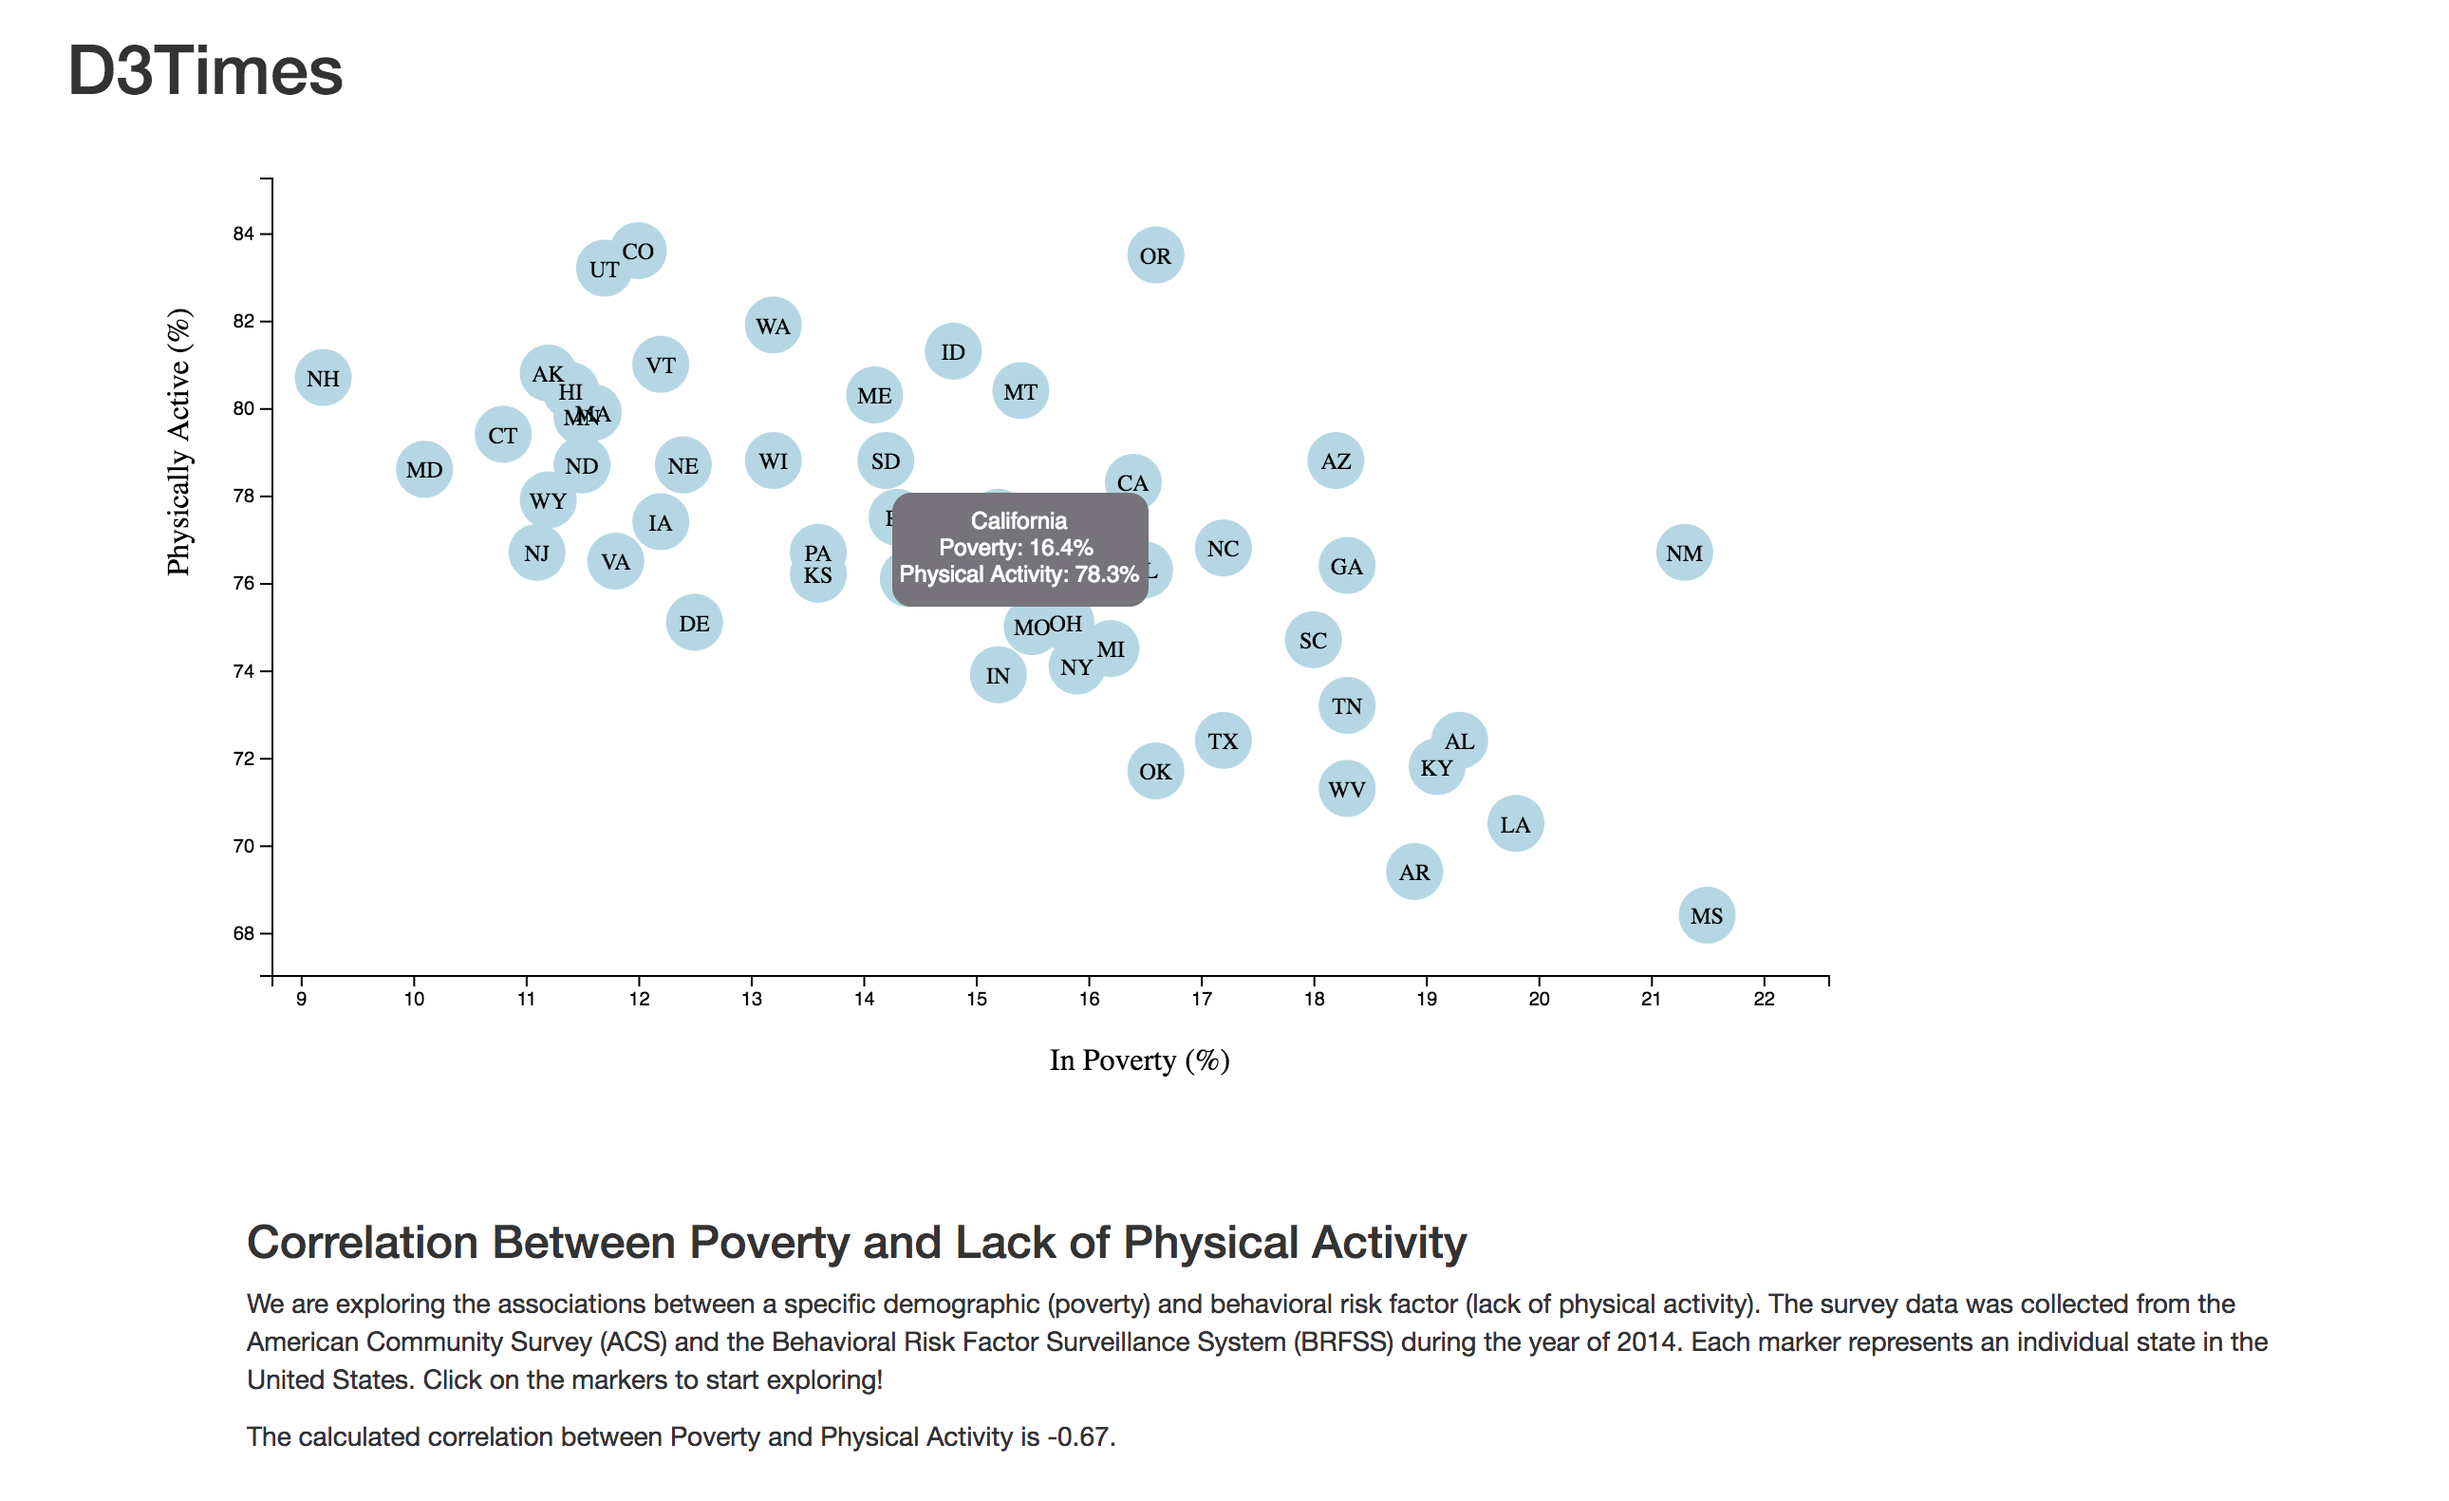
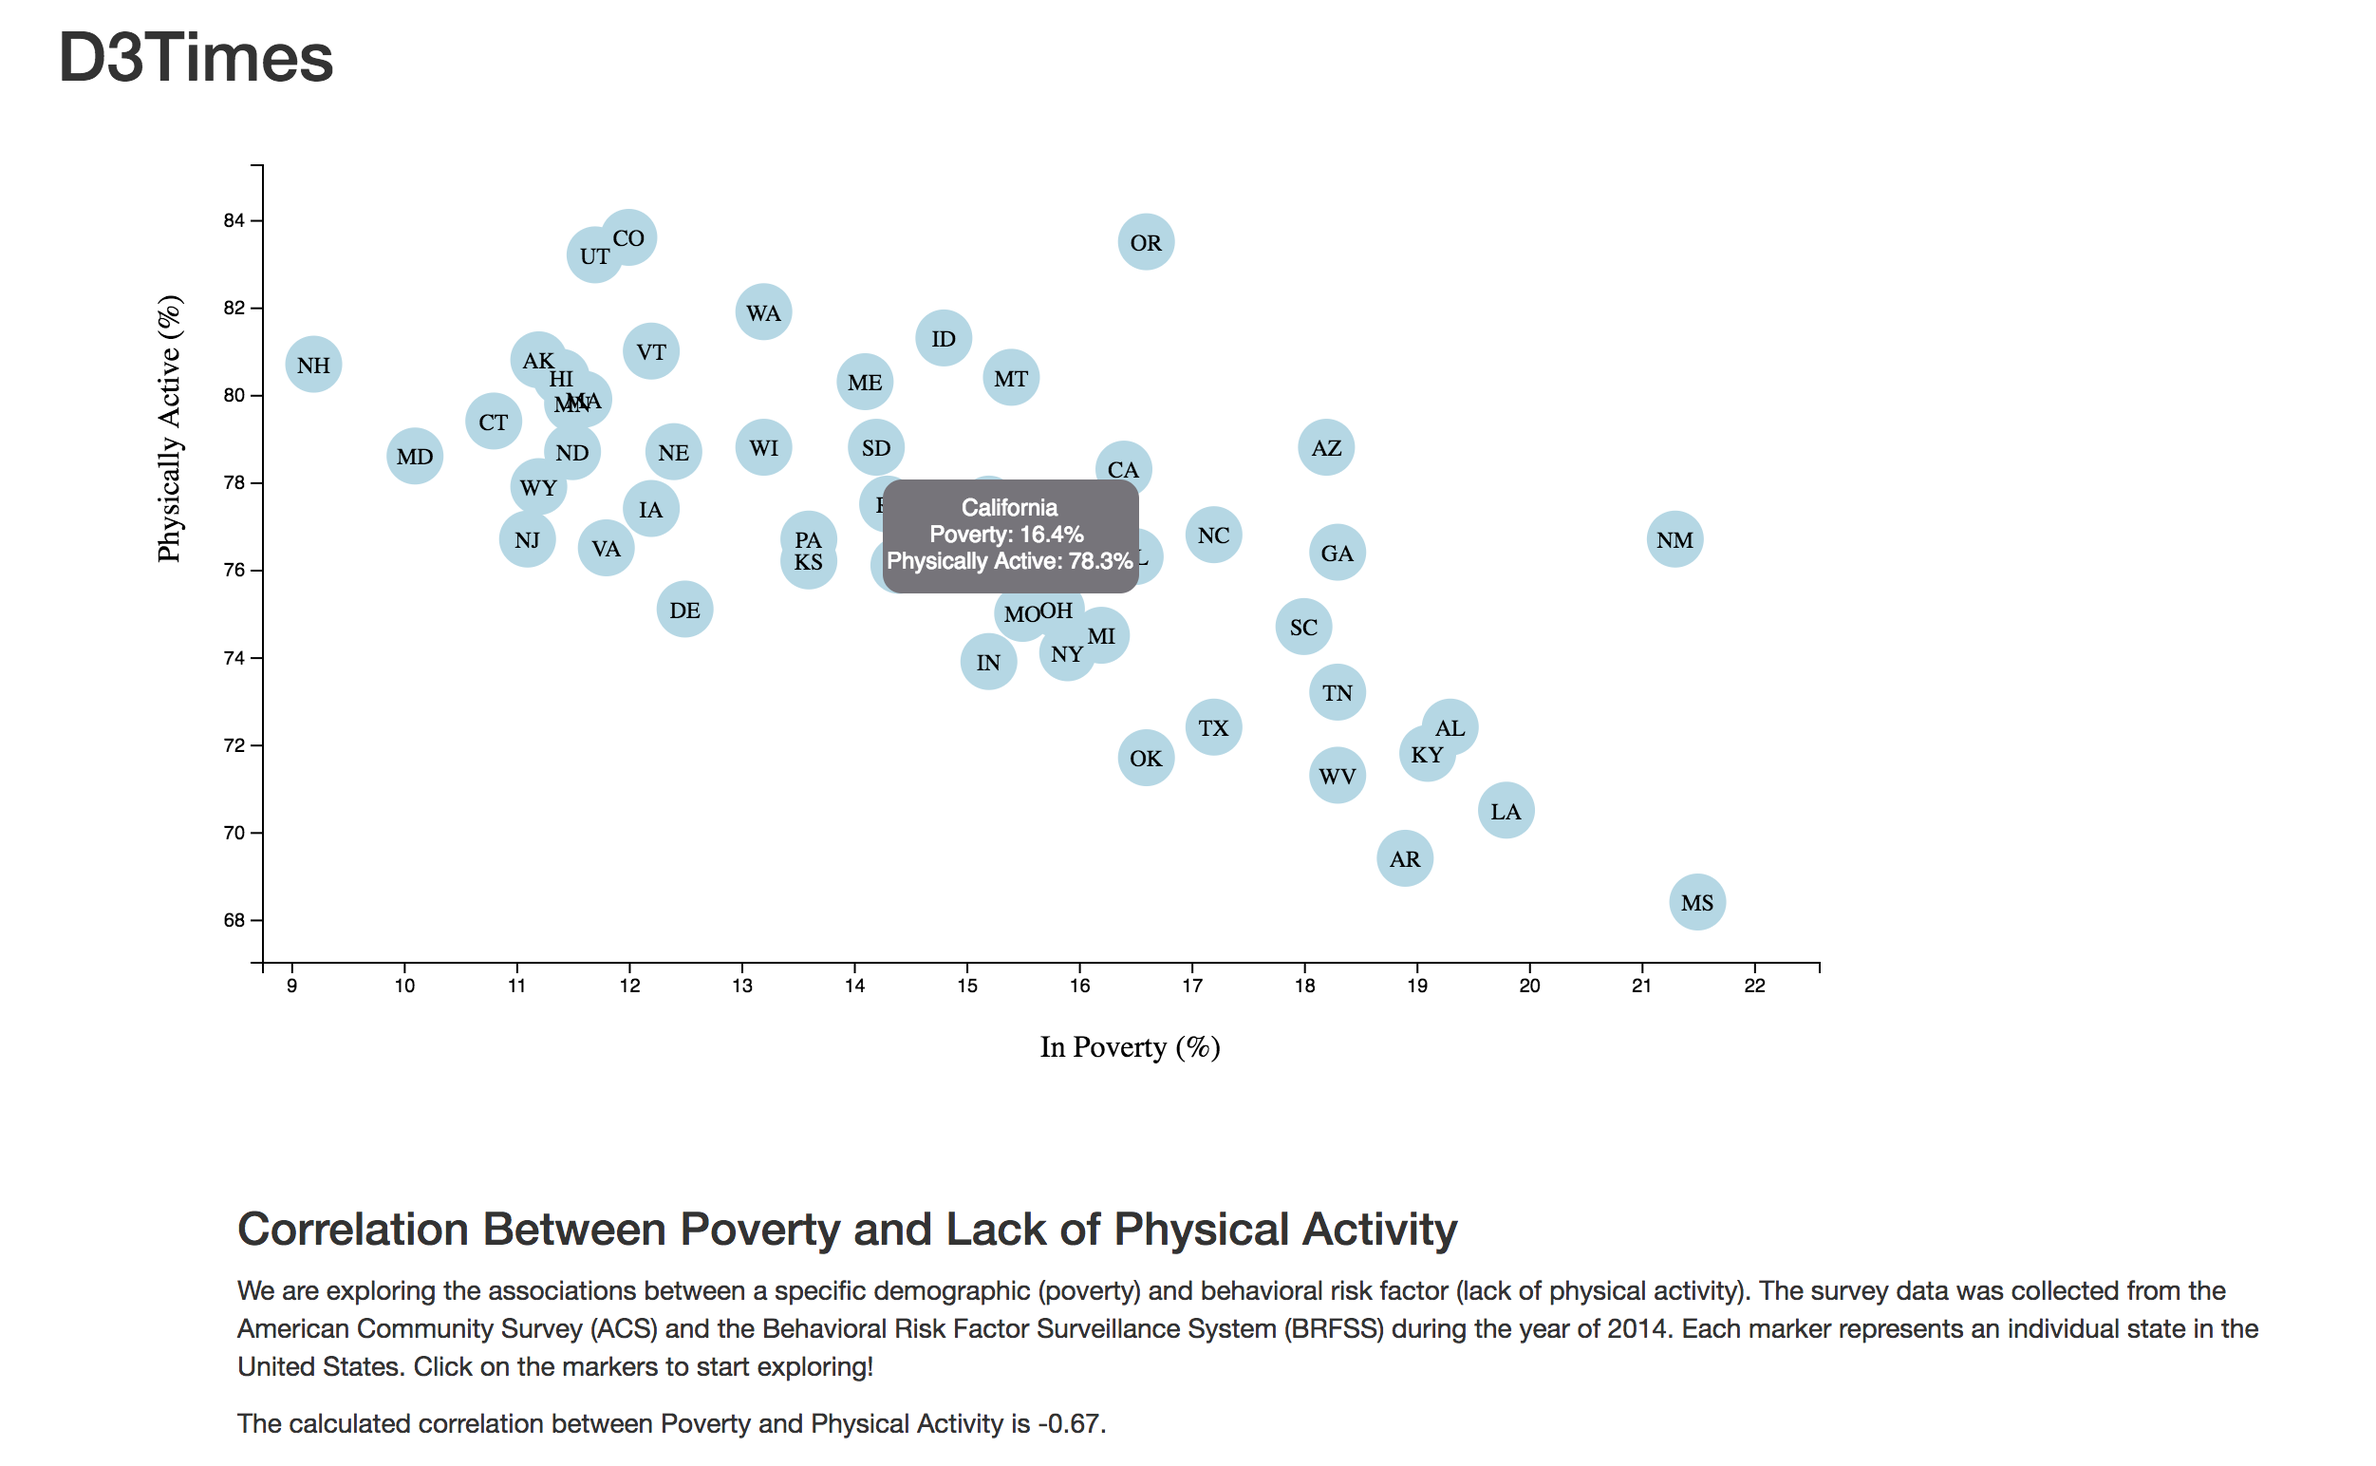
modified

diff --git a/assets/js/app.js b/assets/js/app.js
@@ -71,7 +71,7 @@ d3.csv("../../data/data.csv", function(err, healthData) {
             var pov = +data.poverty;
             var physAct = +data.phys_act;
             return (
-                stateName + '<br> Poverty: ' + pov + '% <br> Physical Activity: ' + physAct +'%'
+                stateName + '<br> Poverty: ' + pov + '% <br> Physically Active: ' + physAct +'%'
             );
         });
 
